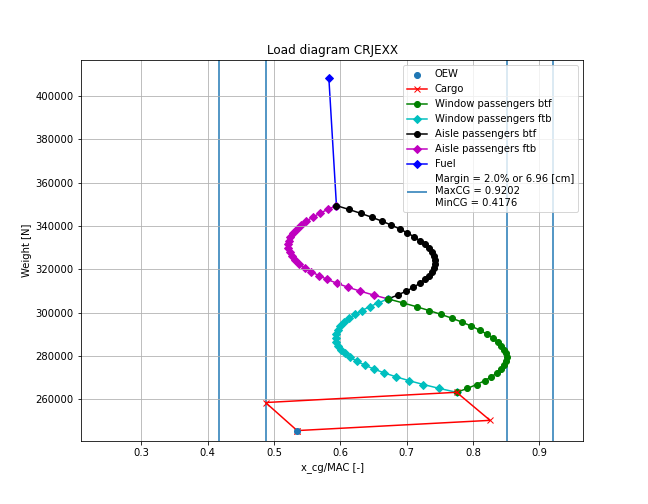
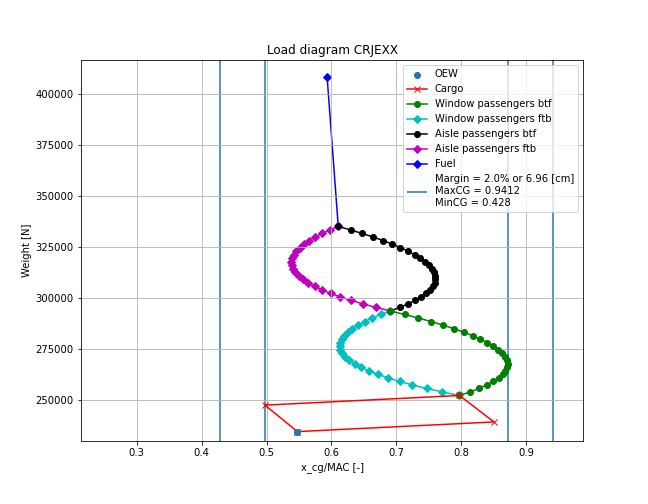
asd

diff --git a/mass_calculation.py b/mass_calculation.py
@@ -224,10 +224,11 @@ def loaddiagram_crjexx():
     
     #Weights
     MTOW = 41640 * g0
-    OEW = 23188 * g0
-    MaxPayload = 10605 * g0               #N 
-    fuel_weight = MTOW - OEW - MaxPayload #N
-    pass_weight = 8800 * g0            #N
+    OEW = 22028.6 * g0    
+    MaxPayload = 10253 * g0           #N 
+    fuel_weight = MTOW - OEW - 1350*g0 - 1650*g0 - MaxPayload #N
+    print(fuel_weight/9.80665)
+    pass_weight = (8800 - 88*4) * g0            #N
     no_pass = 100
     no_chairsprow = 4
     no_rows = int(no_pass / no_chairsprow)
